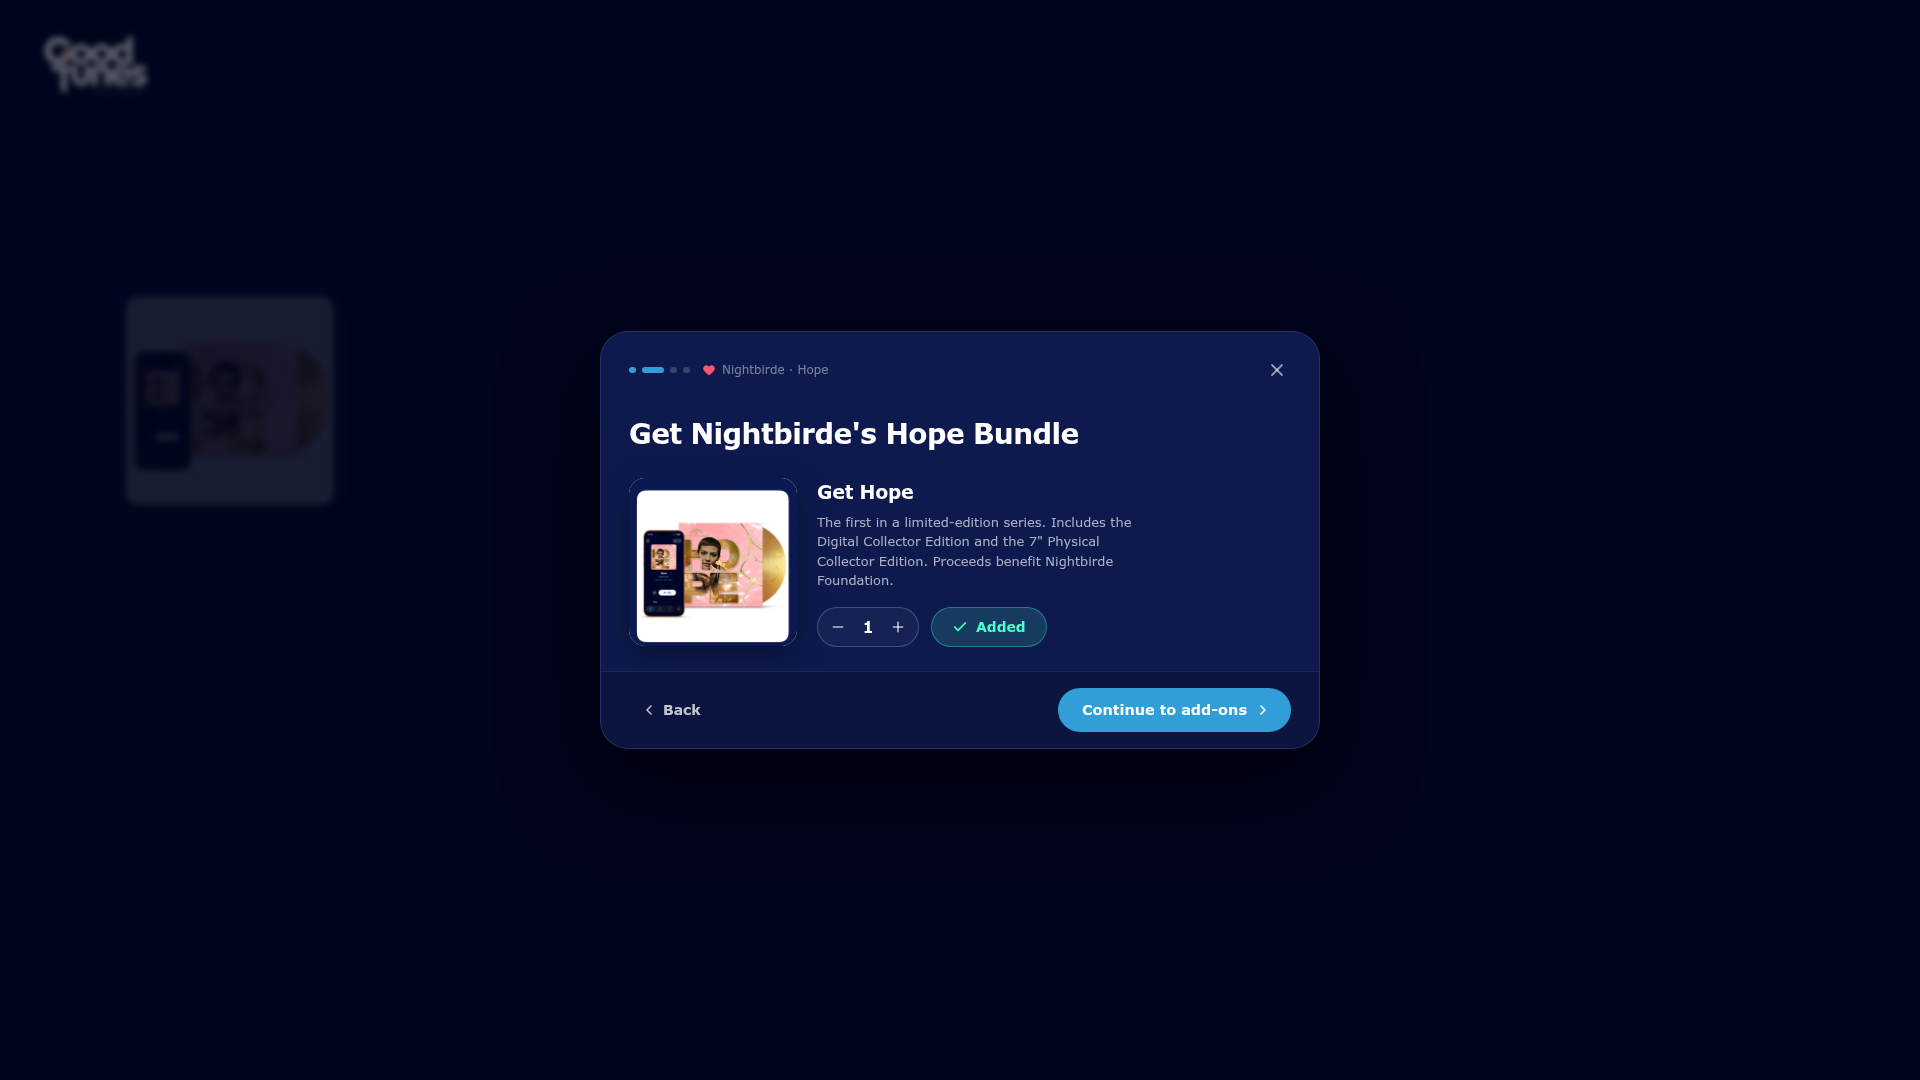
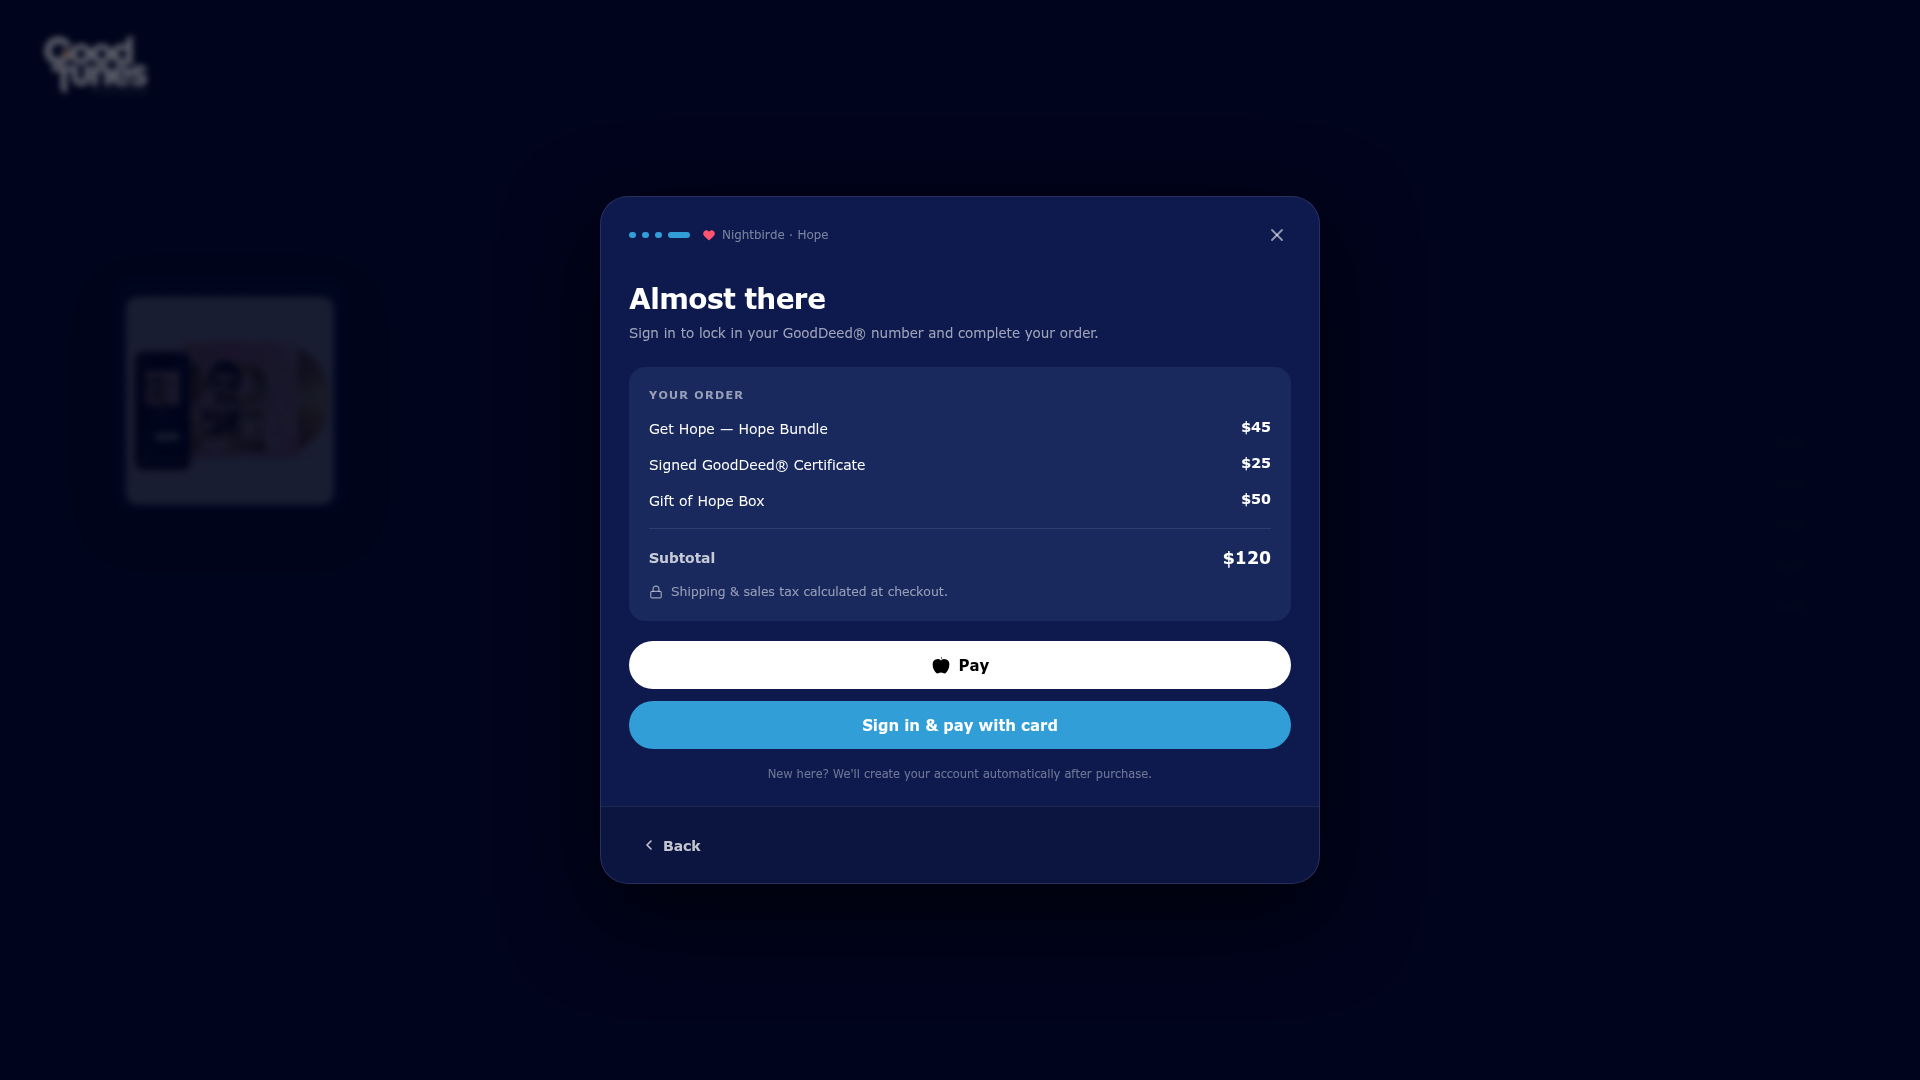
Add pricing details to product offerings and checkout flow
Introduces pricing constants, a USD formatter, and updates ProductRow, OverviewStep, BuyStep, AddonsStep, and PayStep components in Flow.tsx to display item prices, line totals, and subtotals.

Replit-Commit-Author: Agent
Replit-Commit-Session-Id: 05c2a2e8-5b06-4806-a9d5-d257ed0dfe21
Replit-Commit-Checkpoint-Type: full_checkpoint
Replit-Commit-Event-Id: a33cfb4e-0ce1-4649-bb06-24cfda2f40ed
Replit-Commit-Screenshot-Url: https://storage.googleapis.com/screenshot-production-us-central1/5293185b-8e25-4d4f-b8b2-dc5494b9adc6/05c2a2e8-5b06-4806-a9d5-d257ed0dfe21/Q1f2G0H
Replit-Helium-Checkpoint-Created: true

Changed region(s): [[0.3125, 0.1833, 0.6875, 0.825], [0.625, 0.4889, 0.6562, 0.5194]]

diff --git a/artifacts/mockup-sandbox/src/components/mockups/hope-offer/Flow.tsx b/artifacts/mockup-sandbox/src/components/mockups/hope-offer/Flow.tsx
@@ -22,6 +22,10 @@ const BLUE = "#319ED8";
 const ORANGE = "#F09837";
 const MINT = "#4AFFCA";
 
+const PRICE = { bundle: 45, cert: 25, box: 50 };
+const usd = (n: number) =>
+  `$${n.toLocaleString("en-US", { minimumFractionDigits: 0 })}`;
+
 const img = (name: string) =>
   `${import.meta.env.BASE_URL.replace(/\/$/, "")}/images/${name}`;
 
@@ -136,6 +140,7 @@ function ProductRow({
   image,
   title,
   desc,
+  price,
   qty,
   onQty,
   testid,
@@ -144,6 +149,7 @@ function ProductRow({
   image: string;
   title: string;
   desc: React.ReactNode;
+  price: number;
   qty: number;
   onQty: (n: number) => void;
   testid: string;
@@ -163,7 +169,15 @@ function ProductRow({
         />
       </div>
       <div className="flex-1 min-w-0 flex flex-col">
-        <h3 className="text-white text-[19px] font-bold tracking-[-0.01em]">{title}</h3>
+        <div className="flex items-start justify-between gap-3">
+          <h3 className="text-white text-[19px] font-bold tracking-[-0.01em]">{title}</h3>
+          <div
+            className="flex-shrink-0 text-white text-[18px] font-bold tabular-nums"
+            data-testid={`price-${testid}`}
+          >
+            {usd(price)}
+          </div>
+        </div>
         <div className="text-white/65 text-[13px] leading-[1.5] mt-1.5 max-w-[340px]">
           {desc}
         </div>
@@ -174,6 +188,15 @@ function ProductRow({
             onClick={() => onQty(qty > 0 ? qty : 1)}
             testid={`add-${testid}`}
           />
+          {qty > 1 && (
+            <span
+              className="ml-auto text-white/55 text-[13px] tabular-nums"
+              data-testid={`linetotal-${testid}`}
+            >
+              {usd(price)} × {qty} ={" "}
+              <span className="text-white font-semibold">{usd(price * qty)}</span>
+            </span>
+          )}
         </div>
       </div>
     </div>
@@ -252,7 +275,17 @@ function OverviewStep() {
       </div>
 
       <div className="mt-6 rounded-2xl p-6" style={{ background: PANEL }}>
-        <h2 className="text-white text-[20px] font-bold tracking-[-0.01em]">Here's what you'll get</h2>
+        <div className="flex items-start justify-between gap-4">
+          <h2 className="text-white text-[20px] font-bold tracking-[-0.01em]">Here's what you'll get</h2>
+          <div className="flex-shrink-0 text-right">
+            <div className="text-white text-[24px] font-bold tabular-nums leading-none">
+              {usd(PRICE.bundle)}
+            </div>
+            <div className="text-[11px] font-semibold uppercase tracking-[0.06em] mt-1" style={{ color: ORANGE }}>
+              Hope Bundle
+            </div>
+          </div>
+        </div>
         <p className="text-white/65 text-[13px] leading-[1.5] mt-1.5 max-w-[560px]">
           This package has been hand curated by Jane's family for you. Digital arrives instantly.
           Physical ships 8–10 weeks after ordering.
@@ -290,6 +323,7 @@ function BuyStep({ qty, onQty }: { qty: number; onQty: (n: number) => void }) {
         testid="bundle"
         image={img("hope-get-hope.png")}
         title="Get Hope"
+        price={PRICE.bundle}
         desc={
           <>
             The first in a limited-edition series. Includes the Digital Collector Edition and the 7"
@@ -322,6 +356,7 @@ function AddonsStep({
           testid="cert"
           image={img("hope-cert-framed.jpg")}
           title="Signed GoodDeed® Certificate"
+          price={PRICE.cert}
           desc={
             <>
               Printed on museum-quality heavy stock, this deed of your good is personalized with your
@@ -338,6 +373,7 @@ function AddonsStep({
           testid="box"
           image={img("hope-gift-box.png")}
           title="Gift of Hope Box"
+          price={PRICE.box}
           desc={
             <>
               Each box includes a stainless-steel Nightbirde cup, a copy of her debut album "It's OK,"
@@ -364,10 +400,11 @@ function PayStep({
   boxQty: number;
 }) {
   const lines = [
-    { label: "Get Hope — Hope Bundle", qty: bundleQty },
-    { label: "Signed GoodDeed® Certificate", qty: certQty },
-    { label: "Gift of Hope Box", qty: boxQty },
+    { label: "Get Hope — Hope Bundle", qty: bundleQty, unit: PRICE.bundle },
+    { label: "Signed GoodDeed® Certificate", qty: certQty, unit: PRICE.cert },
+    { label: "Gift of Hope Box", qty: boxQty, unit: PRICE.box },
   ].filter((l) => l.qty > 0);
+  const subtotal = lines.reduce((s, l) => s + l.qty * l.unit, 0);
 
   return (
     <div data-testid="step-pay">
@@ -380,16 +417,31 @@ function PayStep({
         <div className="text-white/55 text-[11px] font-bold uppercase tracking-[0.12em] mb-3">
           Your order
         </div>
-        <div className="flex flex-col gap-2.5">
+        <div className="flex flex-col gap-3">
           {lines.map((l) => (
-            <div key={l.label} className="flex items-center justify-between">
-              <span className="text-white text-[14px]">{l.label}</span>
-              <span className="text-white/60 text-[13px] tabular-nums">×{l.qty}</span>
+            <div key={l.label} className="flex items-start justify-between gap-3">
+              <div className="min-w-0">
+                <span className="text-white text-[14px]">{l.label}</span>
+                {l.qty > 1 && (
+                  <div className="text-white/45 text-[12px] tabular-nums mt-0.5">
+                    {usd(l.unit)} × {l.qty}
+                  </div>
+                )}
+              </div>
+              <span className="flex-shrink-0 text-white text-[14px] font-semibold tabular-nums">
+                {usd(l.unit * l.qty)}
+              </span>
             </div>
           ))}
         </div>
         <div className="h-px bg-white/10 my-4" />
-        <div className="flex items-center gap-2 text-white/55 text-[12.5px]">
+        <div className="flex items-center justify-between">
+          <span className="text-white/75 text-[14px] font-semibold">Subtotal</span>
+          <span className="text-white text-[17px] font-bold tabular-nums" data-testid="text-subtotal">
+            {usd(subtotal)}
+          </span>
+        </div>
+        <div className="flex items-center gap-2 text-white/55 text-[12.5px] mt-3">
           <Lock className="w-3.5 h-3.5" strokeWidth={2} />
           Shipping &amp; sales tax calculated at checkout.
         </div>
